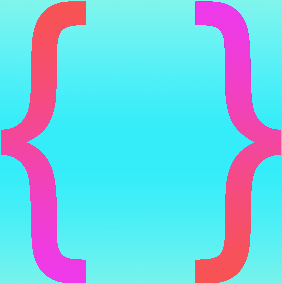
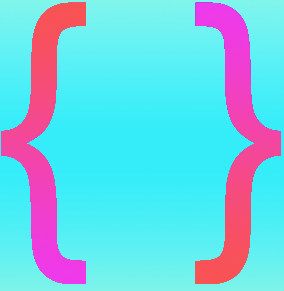
add 2

diff --git a/Home/HTML CSS 2/ДЗ/index.html b/Home/HTML CSS 2/ДЗ/index.html
@@ -1,56 +1,89 @@
 <!DOCTYPE html>
 <html lang="en">
+
 <head>
     <meta charset="UTF-8">
     <meta name="viewport" content="width=device-width, initial-scale=1.0">
     <title>Document</title>
 </head>
+
 <body style="padding:0px 800px 0px 0px;">
-    <a href="../../../index.html">&larr; Назад</a> 
+    <a href="../../../index.html">&larr; Назад</a>
+    <h2>Skobli2</h2>
+    <div style="margin: 0px;">
+        <img align="top" src="top.jpeg"><br>
+        <img src="left1.gif"><img align="top" src="center.png"><img align="top" src="right.gif"><br>
+        <img src="bottom.jpeg" style="margin: -5px 0px;">
+        <br>
+
+    </div>
+    <hr>
     <h1>Как правильно использовать форматы изображений (ДЗ+ДОП)</h1>
     <div style="background-color: rgb(215, 215, 215); padding: 16px;">
         <p>За рулём сижу довольный<br>Ездить просто и легко!<br>Только руль чуть-чуть огромный<br>И педали далеко.</p>
         <img src="car-removebg — копия.png">
-        <p style="color: rgb(95, 95, 95); font-style: italic;">*Используем формат png, если нужно разместить полноцветные изображения на фон</p></div>
-        <br>
-        <br> 
+        <p style="color: rgb(95, 95, 95); font-style: italic;">*Используем формат png, если нужно разместить
+            полноцветные изображения на фон</p>
+    </div>
+    <br>
+    <br>
     <div style="border-style: solid; border-width: 1px;padding: 16px;">
-        <p>Мы купили <strong>паровозик</strong>,<br>Сразу два вагона возит.<br>Я включу его, и он<br>За собой везет вагон.<br>Вот бы мне в нем прокатиться,<br>Только жаль &mdash; не поместиться.</p>
+        <p>Мы купили <strong>паровозик</strong>,<br>Сразу два вагона возит.<br>Я включу его, и он<br>За собой везет
+            вагон.<br>Вот бы мне в нем прокатиться,<br>Только жаль &mdash; не поместиться.</p>
         <img src="car.jpeg">
         <img src="train.jpeg">
-        <p style="color: rgb(95, 95, 95); font-style: italic;">*Используем формат jpeg, если потери качества изображения допустимы и не нужна прозрачноть. Недостаток: при сжатии заметно портится качество и детализация картинки.<br></p></div>
-        <br>
-        <br> 
+        <p style="color: rgb(95, 95, 95); font-style: italic;">*Используем формат jpeg, если потери качества изображения
+            допустимы и не нужна прозрачноть. Недостаток: при сжатии заметно портится качество и детализация
+            картинки.<br></p>
+    </div>
+    <br>
+    <br>
     <div style="border-style: solid; border-width: 1px;padding: 16px;">
-         <p>Нарисую я в альбоме<br>
-         <i>Голубое </i>море,<br><i>Белый </i>парус над волною<br>Бьется на просторе.</p>
+        <p>Нарисую я в альбоме<br>
+            <i>Голубое </i>море,<br><i>Белый </i>парус над волною<br>Бьется на просторе.
+        </p>
         <img src="palette.gif">
-        <p style="color: rgb(95, 95, 95); font-style: italic;">*Используем формат gif для малоцветных изображений, если нам не нужна прозрачноть </p></div>    
-        <br>
-        <br> 
-        <div style="border-style: solid; border-width: 1px;padding: 16px;">
-            <p>WebP</p>
-            <p> <strong>WebP</strong> — это веб-ориентированный графический формат, разработанный Google в 2010 году. Он был специально создан как альтернатива неоптимальным форматам JPEG и PNG.</p>
-            <img src="1.webp">
-           <P> <strong>Главное назначение WebP</strong> — значительно уменьшить уменьшать вес графических файлов в несколько раз без потери детализации и четкости изображения. Это дает выигрыш в скорости загрузки контента для пользователей.</P>
-           <p><strong>В WebP реализованы два метода сжатия:</strong></p>
+        <p style="color: rgb(95, 95, 95); font-style: italic;">*Используем формат gif для малоцветных изображений, если
+            нам не нужна прозрачноть </p>
+    </div>
+    <br>
+    <br>
+    <div style="border-style: solid; border-width: 1px;padding: 16px;">
+        <p>WebP</p>
+        <p> <strong>WebP</strong> — это веб-ориентированный графический формат, разработанный Google в 2010 году. Он был
+            специально создан как альтернатива неоптимальным форматам JPEG и PNG.</p>
+        <img src="1.webp">
+        <P> <strong>Главное назначение WebP</strong> — значительно уменьшить уменьшать вес графических файлов в
+            несколько раз без потери детализации и четкости изображения. Это дает выигрыш в скорости загрузки контента
+            для пользователей.</P>
+        <p><strong>В WebP реализованы два метода сжатия:</strong></p>
         <ol>
-            <li>С потерями (аналог JPEG) — для полноцветных фотографий. WebP уменьшает размер картинок, убирая лишнюю информацию. Он анализирует соседние пиксели и предсказывает значения следующих пикселей. Затем кодирует только разницу между реальным и предсказанным значением. <br> При значительном уменьшении размера могут теряться некоторые детали картинки</li>
-            <li>Без потерь (аналог PNG) — для изображений с прозрачностью. При сжатии без потерь WebP использует уже закодированные фрагменты картинки, чтобы в точности восстановить новые пиксели.</li> 
+            <li>С потерями (аналог JPEG) — для полноцветных фотографий. WebP уменьшает размер картинок, убирая лишнюю
+                информацию. Он анализирует соседние пиксели и предсказывает значения следующих пикселей. Затем кодирует
+                только разницу между реальным и предсказанным значением. <br> При значительном уменьшении размера могут
+                теряться некоторые детали картинки</li>
+            <li>Без потерь (аналог PNG) — для изображений с прозрачностью. При сжатии без потерь WebP использует уже
+                закодированные фрагменты картинки, чтобы в точности восстановить новые пиксели.</li>
         </ol>
-            <img src="01-sravnenie-formatov-izobrazhenij-webp-png-jpeg-gif.jpg" style="width: 600px;">
-            <p> <strong>Недостатки формата WebP</strong></p>
-            <ol>
-                <li>Неполная поддержка старых браузеров. Формат пока не поддерживается в Internet Explorer и в Safari старых версий. Пользователи этих браузеров попросту не увидят картинки WebP на сайте. Хотя доля среди пользователей этих браузеров со временем сокращается.</li>
-                <li>Не все инструменты для работы с изображениями поддерживают формат WebP. Некоторые программы для редактирования графики могут не поддерживать этот формат без дополнительных плагинов или обновлений.</li>
-                <li>Плохое качество при сильном сжатии. Картинки становятся нечеткими и появляются ошибки, если очень сильно уменьшить размер.</li>
-            </ol>
-           <br>
-           <img src="webP.png" align="top" style="width: 600px;"> </div> 
-           <br> 
+        <img src="01-sravnenie-formatov-izobrazhenij-webp-png-jpeg-gif.jpg" style="width: 600px;">
+        <p> <strong>Недостатки формата WebP</strong></p>
+        <ol>
+            <li>Неполная поддержка старых браузеров. Формат пока не поддерживается в Internet Explorer и в Safari старых
+                версий. Пользователи этих браузеров попросту не увидят картинки WebP на сайте. Хотя доля среди
+                пользователей этих браузеров со временем сокращается.</li>
+            <li>Не все инструменты для работы с изображениями поддерживают формат WebP. Некоторые программы для
+                редактирования графики могут не поддерживать этот формат без дополнительных плагинов или обновлений.
+            </li>
+            <li>Плохое качество при сильном сжатии. Картинки становятся нечеткими и появляются ошибки, если очень сильно
+                уменьшить размер.</li>
+        </ol>
+        <br>
+        <img src="webP.png" align="top" style="width: 600px;">
+    </div>
+    <br>
     <!-- <div style="border-style: solid; border-width: 1px;padding: 16px;">
             <p>skobki2<br> -->
-            <!-- <p>Исходное изображение весит 149 кб, формат png </p>
+    <!-- <p>Исходное изображение весит 149 кб, формат png </p>
            <img src="skobki2.png">
            <br> 
            <p>Преобразованное изображение весит 80.4 кб, формат gif</p>
@@ -59,16 +92,8 @@
            <p>Преобразованное изображение весит 59.1 кб, формат jpeg</p>
            <img src="59.1.jpeg">
      </div>     -->
-     <h2>Skobli2</h2>
-    <div>
-        <div style="background: url(top.jpeg); width: 200px; height: 20px;"></div>
-        <div style="background: url(left1.gif); width: 40px; height: 200px; float: left; "></div>
-        <div style="background: url(right.gif); width: 60px; height: 200px; float: right;"></div>
-        <div style="background: url(center.png); width: 280px; height: 200px; margin-left: 2px; "></div>
-        <div style="background: url(bottom.jpeg); height: 40px; width: 200px; clear: both;"></div>
-    </div>
-
 
 
 </body>
+
 </html>

diff --git a/Home/HTML CSS 4/DIV_FRAME.html b/Home/HTML CSS 4/DIV_FRAME.html
@@ -1,15 +1,17 @@
 <!DOCTYPE html>
 <html lang="en">
+
 <head>
     <meta charset="UTF-8">
     <meta name="viewport" content="width=device-width, initial-scale=1.0">
     <title>Document</title>
 
 </head>
+
 <body>
     <a href="../../index.html">&larr; Назад</a>
     <br>
-    <h1>Домашнее задание №4</h1> 
+    <h1>Домашнее задание №4</h1>
     <br>
     <br>
     <div>
@@ -20,9 +22,15 @@
                         <div style="background: url(top\ left.png) no-repeat; background-position: top left;">
                             <div style="background: url(top\ right.png) no-repeat; background-position: top right;">
                                 <div style="background: url(top\ left.png) no-repeat; background-position: top left;">
-                                    <div style="background: url(botton\ left.png) no-repeat; background-position: bottom left;">
-                                        <div style="background: url(botton\ right.png) no-repeat; background-position: bottom right;">
-                                            <div style="text-align: center; padding: 70px;">Бериллий — элемент главной подгруппы второй группы, второго периода периодической системы химических элементов Д. И. Менделеева, с атомным номером 4. Обозначается символом Be (лат. Beryllium). Высокотоксичный элемент. Простое вещество бериллий — относительно твёрдый металл светло-серого цвета.
+                                    <div
+                                        style="background: url(botton\ left.png) no-repeat; background-position: bottom left;">
+                                        <div
+                                            style="background: url(botton\ right.png) no-repeat; background-position: bottom right;">
+                                            <div style="text-align: center; padding: 70px;">Бериллий — элемент главной
+                                                подгруппы второй группы, второго периода периодической системы
+                                                химических элементов Д. И. Менделеева, с атомным номером 4. Обозначается
+                                                символом Be (лат. Beryllium). Высокотоксичный элемент. Простое вещество
+                                                бериллий — относительно твёрдый металл светло-серого цвета.
 
                                             </div>
 
@@ -42,25 +50,41 @@
     <br>
     <hr>
     <h1>ДОП 4.1 Рамка</h1>
-    <p style="text-align: center; padding: 70px; background: url(top\ left.png) no-repeat left top, url(top\ right.png) no-repeat right top, url(botton\ left.png) no-repeat left bottom, url(botton\ right.png) no-repeat right bottom, url(top.png) repeat-x center top, url(botton.png) repeat-x center bottom, url(left.png) repeat-y left center, url(right.png) repeat-y right center; "> Бериллий — элемент главной подгруппы второй группы, второго периода периодической системы химических элементов Д. И. Менделеева, с атомным номером 4. Обозначается символом Be (лат. Beryllium). Высокотоксичный элемент. Простое вещество бериллий — относительно твёрдый металл светло-серого цвета. </p>
+    <p
+        style="text-align: center; padding: 70px; background: url(top\ left.png) no-repeat left top, url(top\ right.png) no-repeat right top, url(botton\ left.png) no-repeat left bottom, url(botton\ right.png) no-repeat right bottom, url(top.png) repeat-x center top, url(botton.png) repeat-x center bottom, url(left.png) repeat-y left center, url(right.png) repeat-y right center; ">
+        Бериллий — элемент главной подгруппы второй группы, второго периода периодической системы химических элементов
+        Д. И. Менделеева, с атомным номером 4. Обозначается символом Be (лат. Beryllium). Высокотоксичный элемент.
+        Простое вещество бериллий — относительно твёрдый металл светло-серого цвета. </p>
     <hr>
-<h1>Задача со звездочкой</h1>
-<div>
-    <div style="width: 600px; height: 600px; background: url(2.png); background-position: center; background-repeat: no-repeat;">
-        <div style="width: 600px; height: 600px; background: url(3.png); background-position: 51% 45%; background-repeat: no-repeat;">
-            <div style="background: url(1.png); width: 600px; height: 600px; background-position: 46% 60%; background-repeat: no-repeat;">
+    <h1>Доп 4.2 Тег AREA</h1>
+    <a href="../HTML CSS 5/MAKETS.html">Смотреть здесь</a><br>
+
+    <h1>ДОП 4.3 Рамка без разрезания</h1>
+    <p style="width: 400px;
+        height: 100px;
+        border: 100px solid transparent;
+        padding: 1rem;
+        border-image-source: url(ramka.png);
+        border-image-repeat: repeat;
+        border-image-slice: 100;">
+        Бериллий — элемент главной подгруппы второй группы, второго периода периодической системы химических элементов
+        Д. И. Менделеева, с атомным номером 4. Обозначается символом Be (лат. Beryllium). Высокотоксичный элемент.
+        Простое вещество бериллий — относительно твёрдый металл светло-серого цвета. </p>
+    <hr>
+    <h1>Задача со звездочкой</h1>
+    <div>
+        <div
+            style="width: 600px; height: 600px; background: url(2.png); background-position: center; background-repeat: no-repeat;">
+            <div
+                style="width: 600px; height: 600px; background: url(3.png); background-position: 51% 45%; background-repeat: no-repeat;">
+                <div
+                    style="background: url(1.png); width: 600px; height: 600px; background-position: 46% 60%; background-repeat: no-repeat;">
+                </div>
             </div>
         </div>
     </div>
-</div>
-<hr>
-<h1>Доп 4.2 Тег AREA</h1>
-<p>Каждый элемент  &lsaquo;area&rsaquo; определяет активные области изображения, которые являются ссылками. Рисунок с привязанными к нему активными областями называется в совокупности картой-изображением. Такая карта по внешнему виду ничем не отличается от обычного изображения, но при этом оно может быть разбито на невидимые зоны разной формы, где каждая из областей служит ссылкой. Тег &lsaquo;area&rsaquo; задает форму области, ее размеры, устанавливает адрес документа, на который следует сделать ссылку, а также имя окна или фрейма, куда браузер будет загружать документ. Этот тег всегда располагается в контейнере &lsaquo;map&rsaquo;, который связывает координаты областей с изображением.</p>
-<p>Несколько областей могут перекрывать друг друга, сверху будет та, которая в коде HTML располагается выше.</p>
-<img src="Снимок экрана 2024-06-04 в 11.54.38.png" width="800px">
-<p>Пример</p>
-
 
 
 </body>
+
 </html>

diff --git a/Home/HTML CSS 4/ramka.html b/Home/HTML CSS 4/ramka.html
@@ -1,0 +1,15 @@
+<!DOCTYPE html>
+<html lang="en">
+
+<head>
+    <meta charset="UTF-8">
+    <meta name="viewport" content="width=device-width, initial-scale=1.0">
+    <title>Document</title>
+    <link rel="stylesheet" href="ramka.css">
+</head>
+
+<body>
+    <div></div>
+</body>
+
+</html>

diff --git a/Home/HTML CSS 4/ramka.css b/Home/HTML CSS 4/ramka.css
@@ -1,0 +1,9 @@
+div {
+    width: 400px;
+    height: 300px;
+    border: 100px solid transparent;
+    padding: 2rem;
+    margin: 50px auto;
+    border-image-source: url(ramka.png);
+    border-image-slice: 100;
+}
